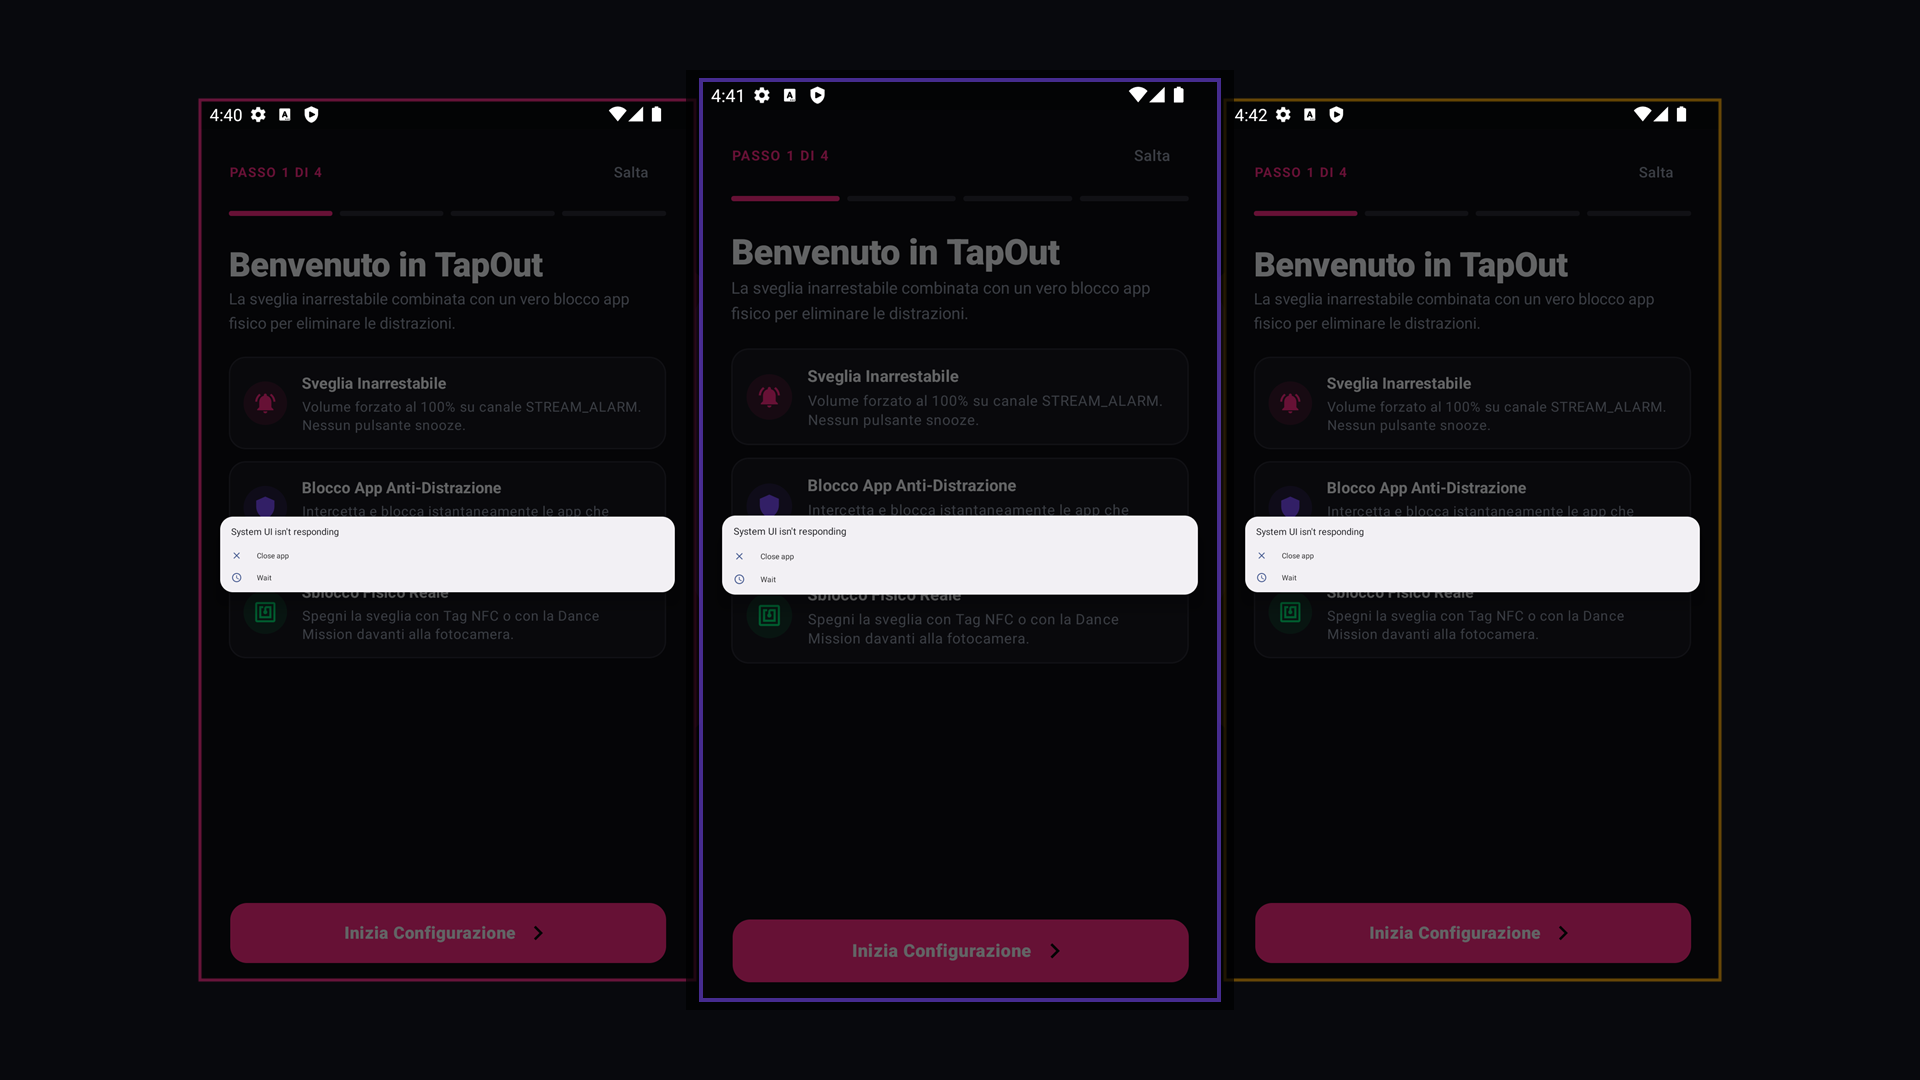
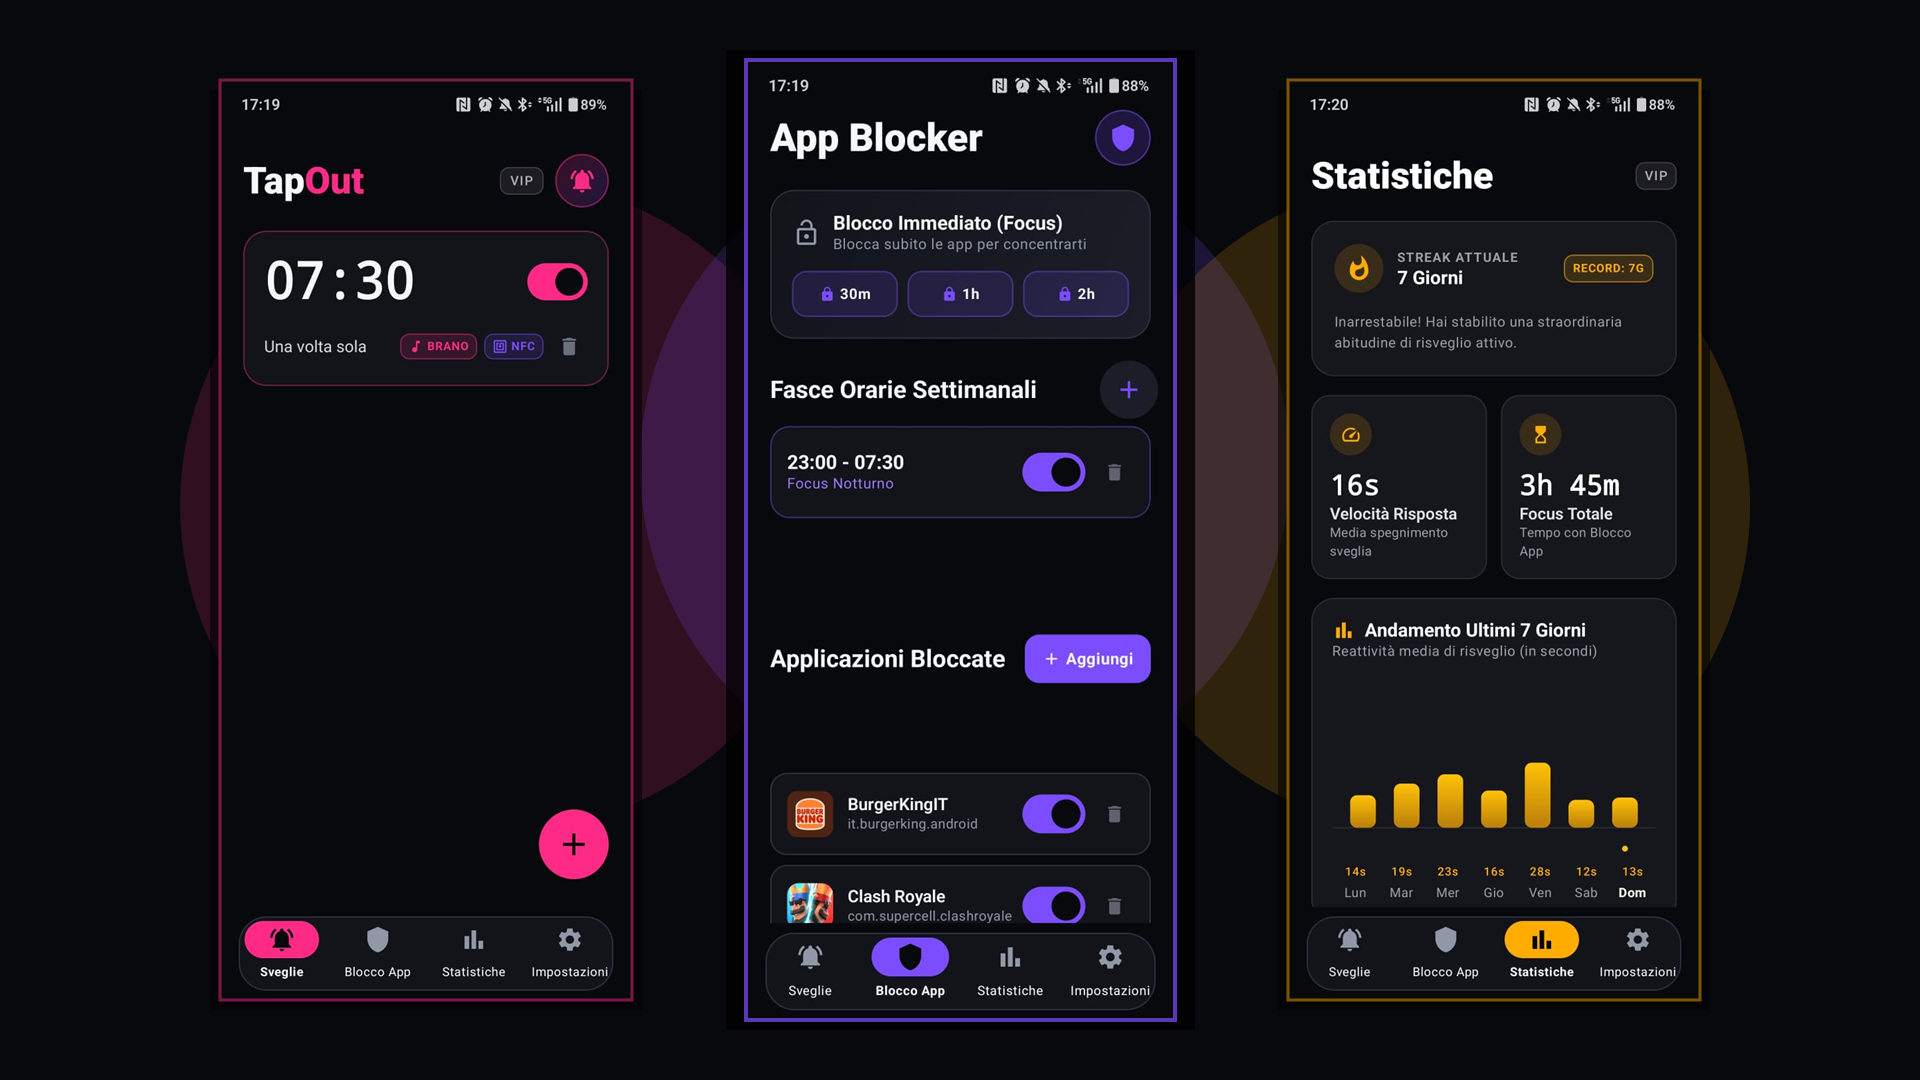
feat(tapout): replace screenshots with authentic on-device captures and update metrics

Changed region(s): [[0.0938, 0.0306, 0.9375, 0.9472]]

diff --git a/src/data/projects.ts b/src/data/projects.ts
@@ -82,34 +82,44 @@ export const projectsData: ProjectItem[] = [
     screenshotAspect: "portrait",
     screenshots: [
       {
-        url: "/projects/tapout/01_onboarding.png",
-        title: "Guided Onboarding & Play Store Privacy Disclosure",
-        caption: "Step-by-step setup wizard with real-time permission status checks and Google Play compliant prominent disclosure for accessibility services.",
+        url: "/projects/tapout/01_dashboard_sveglie.png",
+        title: "Alarms Dashboard & Single-Touch Controls",
+        caption: "Cyber Dark interface in Electric Pink (#FF2A85) featuring quick toggle switches, ringtone selector, and NFC disarm method indicator.",
       },
       {
-        url: "/projects/tapout/02_sveglie_dashboard.png",
-        title: "Alarms Dashboard & Zero-Scroll Interface",
-        caption: "Cyber Dark aesthetic in Electric Pink (#FF2A85) featuring live digital clock, active alarms list, and quick toggle switches.",
-      },
-      {
-        url: "/projects/tapout/03_nuova_sveglia_dialog.png",
-        title: "Compact Zero-Scroll Alarm Creation Dialog",
-        caption: "Single-screen compact modal with 46dp time capsule selector (CompactTimePod), ringtone picker, and side-by-side wake-up method selection.",
-      },
-      {
-        url: "/projects/tapout/04_blocco_app.png",
+        url: "/projects/tapout/02_blocco_app.png",
         title: "Physical App Blocker & Focus Sessions",
-        caption: "Vibrant Purple (#7C4DFF) focus interface with instant duration chips (30m, 1h, 2h), blacklist package manager, and programmable weekly schedules.",
+        caption: "Vibrant Purple (#7C4DFF) focus interface with instant 30m/1h/2h lock chips, night focus schedules (23:00 - 07:30), and per-app interception (BurgerKing, Clash Royale).",
       },
       {
-        url: "/projects/tapout/05_statistiche.png",
-        title: "Wake-Up Analytics & Morning Streak Tracking",
-        caption: "Amber Gold (#FFAB00) performance dashboard with consecutive streak counter, sub-second reaction times, and custom Compose Canvas 7-day bar charts.",
+        url: "/projects/tapout/03_statistiche_streak.png",
+        title: "Wake-Up Analytics & 7-Day Consecutive Streak",
+        caption: "Amber Gold (#FFAB00) morning performance dashboard showing an active 7-day streak, 16s average response speed, 3h 45m focus time, and custom Canvas daily bar chart.",
       },
       {
-        url: "/projects/tapout/06_impostazioni.png",
-        title: "Hardware Settings, NFC Pairing & Privacy",
-        caption: "Slate Blue (#38BDF8) systems panel for multi-tag NFC transponder registration, freemium licensing state, and local privacy guarantees.",
+        url: "/projects/tapout/04_impostazioni_nfc.png",
+        title: "Hardware NFC Management & VIP Licensing",
+        caption: "Slate Blue (#38BDF8) systems panel with physical NFC UID hardware registration (UID: 53:84:D8:83:B6:00:01) and active freemium VIP entitlement manager.",
+      },
+      {
+        url: "/projects/tapout/05_onboarding_welcome.png",
+        title: "Onboarding Wizard — Welcome & Core Pillars",
+        caption: "First-run setup wizard outlining the three architectural pillars: Unstoppable STREAM_ALARM audio, anti-distraction app blocking, and physical NFC/Dance disarm.",
+      },
+      {
+        url: "/projects/tapout/06_onboarding_permissions.png",
+        title: "Onboarding Wizard — Reliability & OEM Hardening",
+        caption: "Real-time verification for high-priority notifications, exact lockscreen alarms, unrestricted battery optimization, and OnePlus autostart integration.",
+      },
+      {
+        url: "/projects/tapout/07_onboarding_accessibility.png",
+        title: "Google Play Compliant Accessibility Disclosure",
+        caption: "Prominent disclosure dialog for AccessibilityService, informing users that foreground window monitoring is used exclusively for app blocking with zero data logging.",
+      },
+      {
+        url: "/projects/tapout/08_onboarding_methods.png",
+        title: "Onboarding Wizard — Disarm Methods & NFC Pairing",
+        caption: "Configuration of on-device ML Kit Dance Mission camera analysis (100% volatile RAM) and instantaneous NFC transponder hardware registration.",
       },
     ],
     tags: [
@@ -159,27 +169,27 @@ export const projectsData: ProjectItem[] = [
     ],
     dashboard: {
       title: "TapOut Telemetry & Hardware Engine",
-      description: "Real-time metrics for AudioGuard enforcement, NFC disarm latency, and on-device ML Kit pose detection.",
+      description: "Live on-device metrics from physical testing: AudioGuard enforcement, hardware NFC disarm, and focus sessions.",
       kpis: [
-        { label: "AudioGuard Volume", value: "100%", change: "STREAM_ALARM locked", isPositive: true },
-        { label: "NFC Disarm Latency", value: "< 12 ms", change: "ReaderMode ISO 14443-A", isPositive: true },
-        { label: "ML Kit Pose Inference", value: "100% RAM", change: "Zero disk / Zero cloud", isPositive: true },
-        { label: "Wake-Up Streak Record", value: "14 Days", change: "Zero emergency snoozes", isPositive: true },
+        { label: "Active Wake Streak", value: "7 Days", change: "Record: 7G", isPositive: true },
+        { label: "Avg Response Speed", value: "16s", change: "Alarm to physical disarm", isPositive: true },
+        { label: "Total Focus Time", value: "3h 45m", change: "App blocker active", isPositive: true },
+        { label: "Hardware NFC Tag", value: "NTAG/Mifare", change: "UID 53:84:D8:83:B6:00:01", isPositive: true },
       ],
       chartData: [
-        { date: "Mon", value: 4.2, secondaryValue: 6.5 },
-        { date: "Tue", value: 3.8, secondaryValue: 7.0 },
-        { date: "Wed", value: 3.5, secondaryValue: 8.0 },
-        { date: "Thu", value: 4.1, secondaryValue: 7.5 },
-        { date: "Fri", value: 3.2, secondaryValue: 8.5 },
-        { date: "Sat", value: 4.5, secondaryValue: 5.0 },
-        { date: "Sun", value: 3.8, secondaryValue: 6.0 },
+        { date: "Mon", value: 14, secondaryValue: 3.5 },
+        { date: "Tue", value: 19, secondaryValue: 4.0 },
+        { date: "Wed", value: 23, secondaryValue: 3.8 },
+        { date: "Thu", value: 16, secondaryValue: 3.75 },
+        { date: "Fri", value: 28, secondaryValue: 4.2 },
+        { date: "Sat", value: 12, secondaryValue: 2.5 },
+        { date: "Sun", value: 13, secondaryValue: 3.0 },
       ],
       recentLogs: [
-        { timestamp: "07:00:00", action: "Alarm triggered via AlarmManager.setAlarmClock() — AudioGuard 100% volume locked", status: "success" },
-        { timestamp: "07:00:04", action: "NFC ReaderMode: ISO 14443-A UID [04:A2:8F:B1:9C] verified — Alarm disarmed in 3.8s", status: "success" },
-        { timestamp: "07:00:05", action: "Room v5 WakeUpLog recorded: streak incremented to 14 consecutive days", status: "success" },
-        { timestamp: "08:30:00", action: "AppBlocker AccessibilityService: intercepted blocked package [com.social.app]", status: "warning" },
+        { timestamp: "07:30:00", action: "Alarm triggered via AlarmManager.setAlarmClock() — AudioGuard 100% volume locked", status: "success" },
+        { timestamp: "07:30:16", action: "NFC ReaderMode: UID verified [53:84:D8:83:B6:00:01] — Alarm disarmed in 16s", status: "success" },
+        { timestamp: "07:30:17", action: "Room v5 WakeUpLog recorded: streak advanced to 7 consecutive days", status: "success" },
+        { timestamp: "17:19:00", action: "AppBlocker AccessibilityService: intercepted blocked package [com.supercell.clashroyale]", status: "warning" },
       ],
     },
   },

diff --git a/src/app/progetti/[slug]/page.tsx b/src/app/progetti/[slug]/page.tsx
@@ -139,7 +139,7 @@ export default async function ProjectDetailPage({ params }: PageProps) {
           <div
             className={`grid gap-6 ${
               project.screenshotAspect === "portrait"
-                ? "grid-cols-1 sm:grid-cols-2 lg:grid-cols-3"
+                ? "grid-cols-1 sm:grid-cols-2 md:grid-cols-3 lg:grid-cols-4"
                 : project.screenshots.length === 1
                 ? "grid-cols-1"
                 : "grid-cols-1 md:grid-cols-2"
@@ -161,7 +161,7 @@ export default async function ProjectDetailPage({ params }: PageProps) {
                 <div
                   className={`relative w-full rounded-xl overflow-hidden bg-zinc-950 border border-white/[0.08] mb-4 ${
                     project.screenshotAspect === "portrait"
-                      ? "aspect-[9/16]"
+                      ? "aspect-[620/1386]"
                       : "aspect-[16/10]"
                   }`}
                 >
@@ -171,7 +171,7 @@ export default async function ProjectDetailPage({ params }: PageProps) {
                     fill
                     sizes={
                       project.screenshotAspect === "portrait"
-                        ? "(max-width: 640px) 100vw, (max-width: 1024px) 50vw, 350px"
+                        ? "(max-width: 640px) 100vw, (max-width: 1024px) 50vw, 320px"
                         : "(max-width: 768px) 100vw, 900px"
                     }
                     className="object-cover object-top transition-transform duration-500 group-hover:scale-[1.02]"
